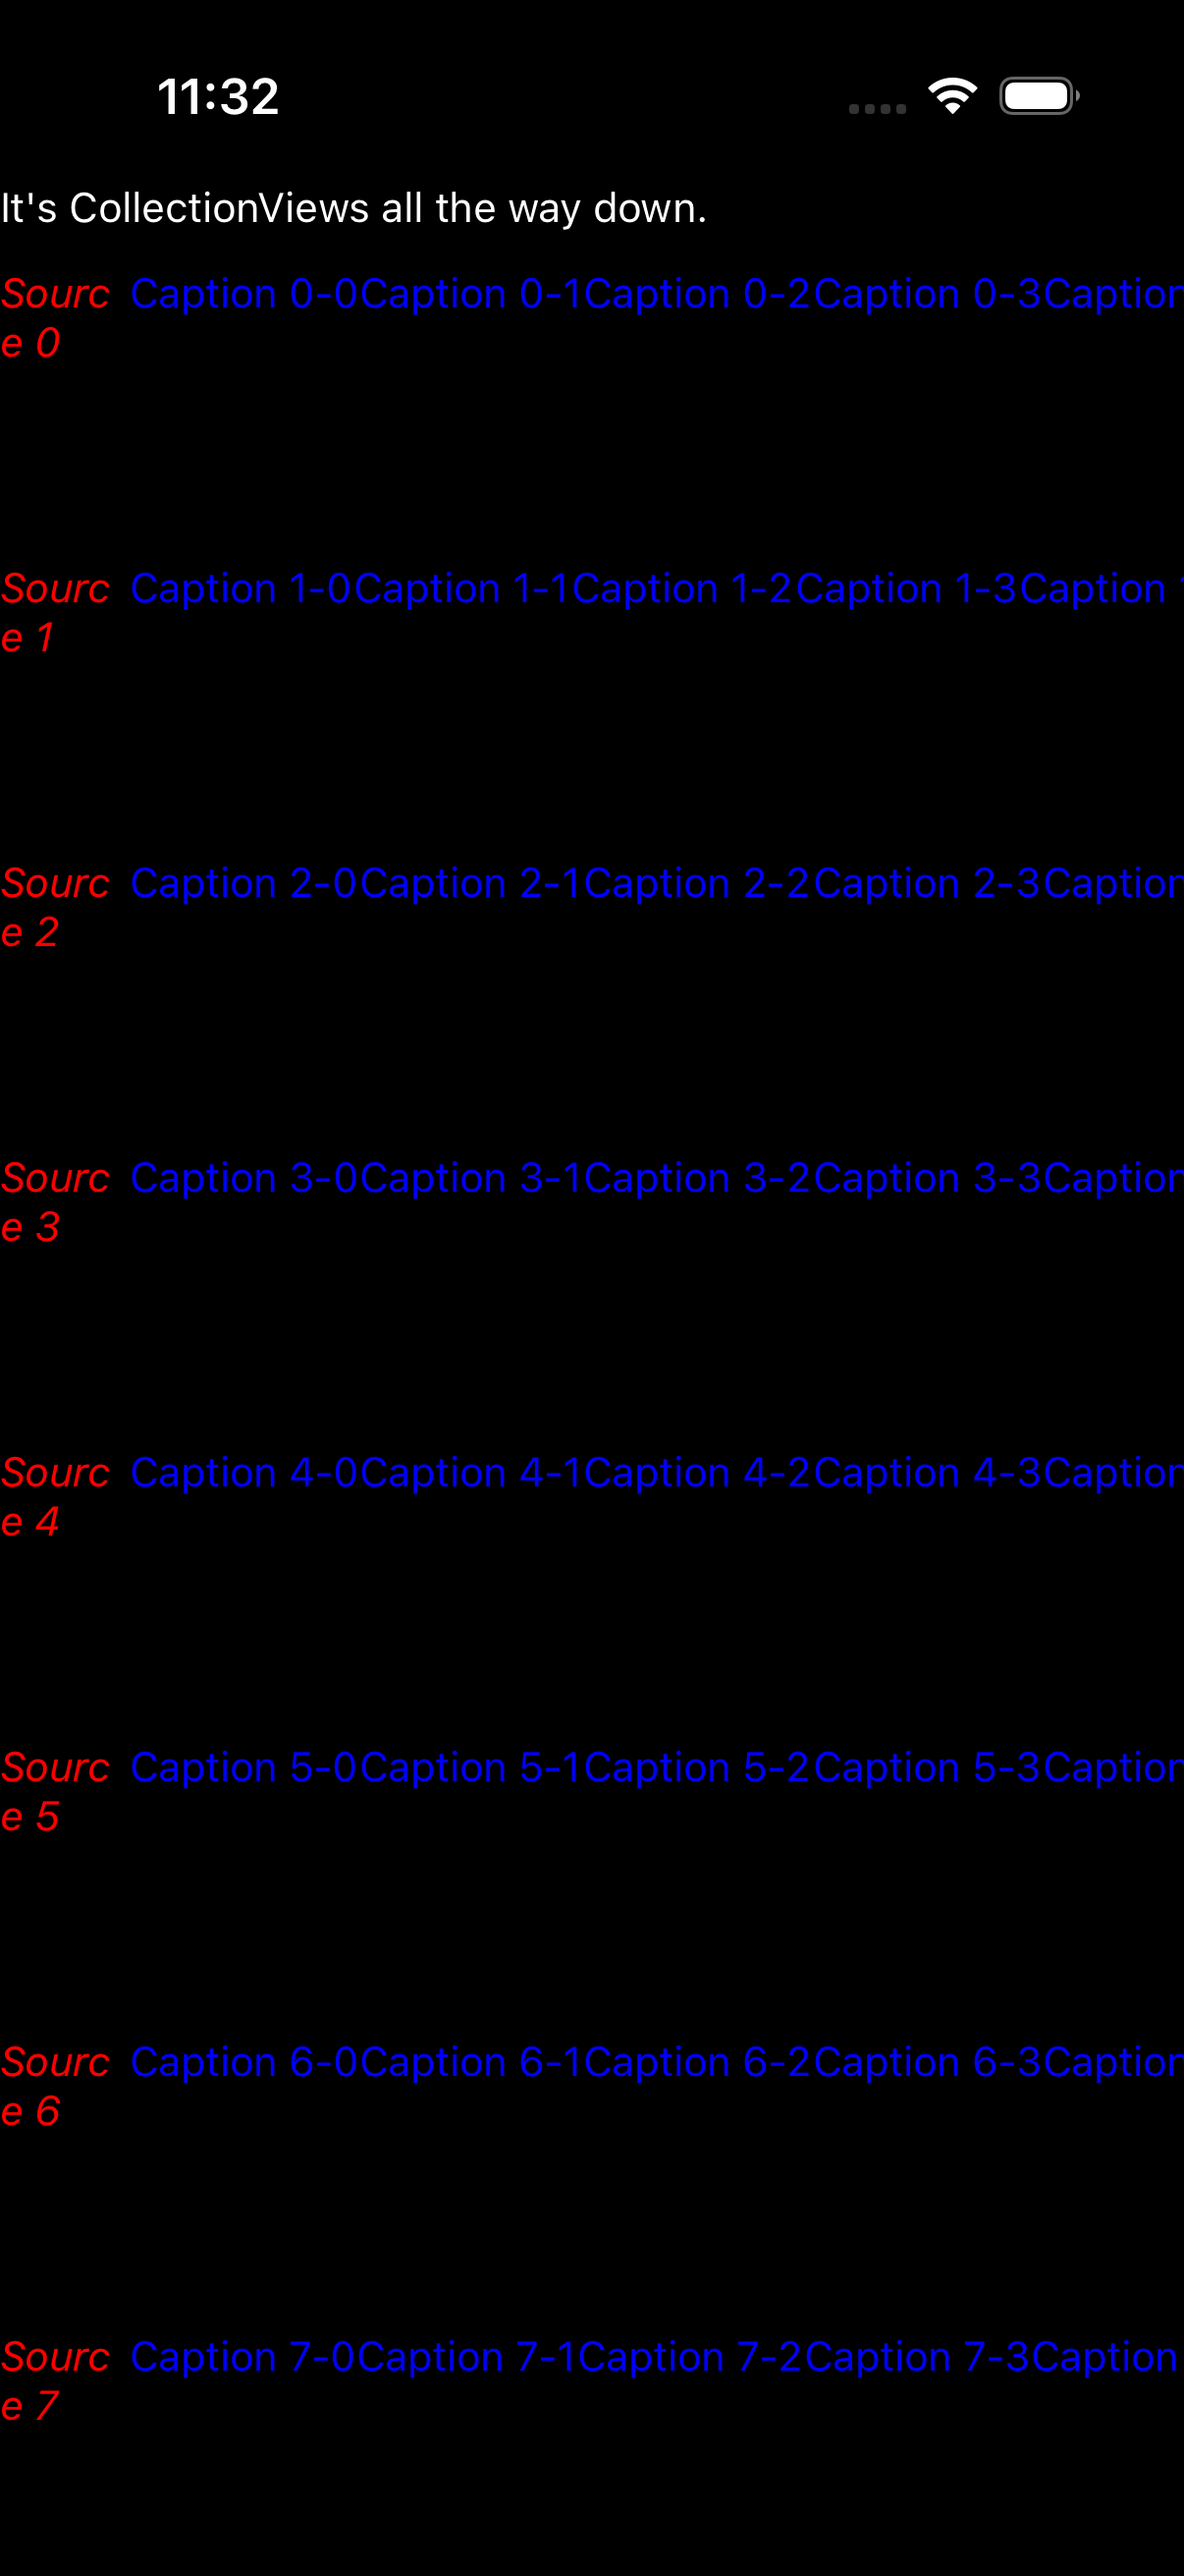
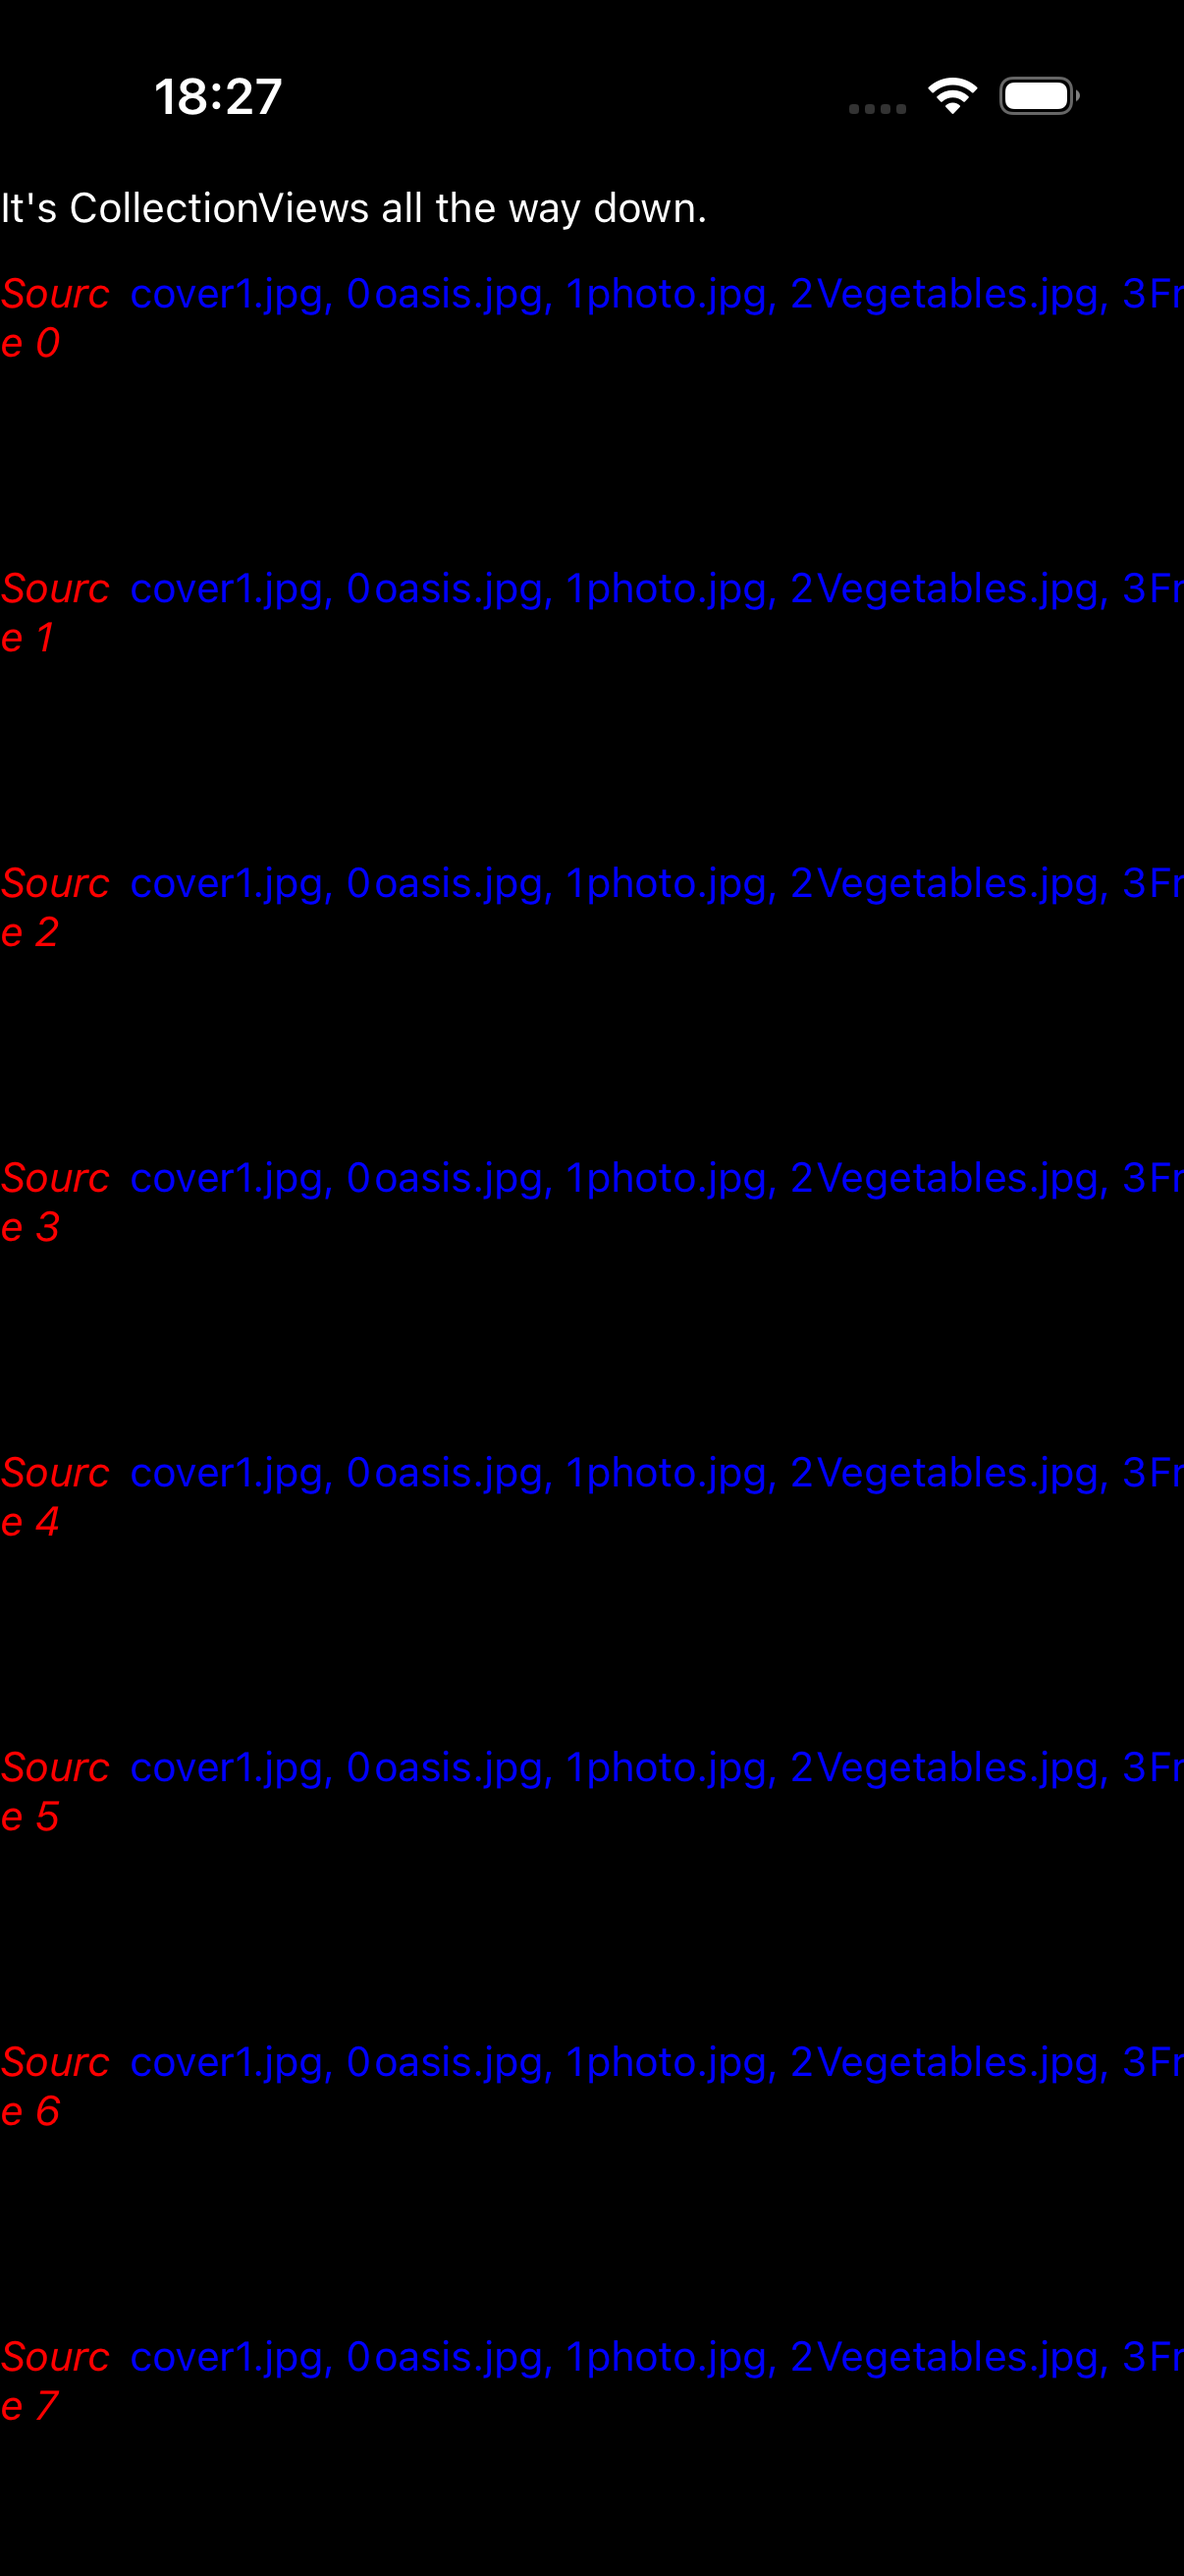
fix(nested_collection): recapture stale ios cpp -> green (165); inner captions already fixed (b83563e75d)

diff --git a/port/cpp/docs/comparison/README.md b/port/cpp/docs/comparison/README.md
@@ -11,8 +11,8 @@ Real .NET MAUI (native-default) vs the C++ port vs the compile-time-XAML gallery
 
 | Classification | Sonnet 5 | Gemini |
 | --- | --- | --- |
-| 🟢 Match | 164 | 0 |
-| 🟡 Minor | 7 | 0 |
+| 🟢 Match | 165 | 0 |
+| 🟡 Minor | 6 | 0 |
 | 🔴 Major | 0 | 0 |
 | ⬛ Blank | 1 | 0 |
 | ⏳ Unreviewed | 23 | 195 |
@@ -2409,16 +2409,16 @@ _Not yet reviewed._
 
 _Not yet computed — no automated pixel-diff score is recorded for this page yet._
 
-### 129. Nested Collection — 🟡/⏳
+### 129. Nested Collection — 🟢/⏳
 <sub>nested_collection</sub>
 
 <table><tr><th></th><th>MAUI</th><th>C++</th><th>C++ &amp; XAML</th></tr><tr><th>Light</th><td><img width="300px" src="../../../maui-reference/captures/ios/nested_collection_light.png" /></td><td><img width="300px" src="captures/ios/cpp/nested_collection_light.png" /></td><td><img width="300px" src="captures/ios/xaml/nested_collection_light.png" /></td></tr><tr><th>Dark</th><td><img width="300px" src="../../../maui-reference/captures/ios/nested_collection_dark.png" /></td><td><img width="300px" src="captures/ios/cpp/nested_collection_dark.png" /></td><td><img width="300px" src="captures/ios/xaml/nested_collection_dark.png" /></td></tr></table>
 
 ports NestedGalleries/NestedCollectionViewGallery.xaml (+ NestedCollectionViewGallery.xaml.cs) of the C# CollectionView gallery
 
-#### 🟡 Sonnet 5 Review
+#### 🟢 Sonnet 5 Review
 
-The 'Source N' header label wraps to two lines in the cpp port (narrower column) instead of MAUI's single-line label, pushing the nested caption row right and truncating it sooner; content is still visible and correct, just laid out with a narrower left column in both themes.
+Match. Fresh recapture after commit b83563e75d (match MAUI inner-caption data) — which postdated the prior iOS capture: cpp now shows the filename inner captions ("cover1.jpg, 0", "oasis.jpg, 1", "photo.jpg, 2", "Vegetables.jpg, 3"...) matching MAUI, not the stale "Caption N-M" data. Outer "Source N" labels wrap identically. Both themes.
 
 #### ⏳ Gemini Review
 
